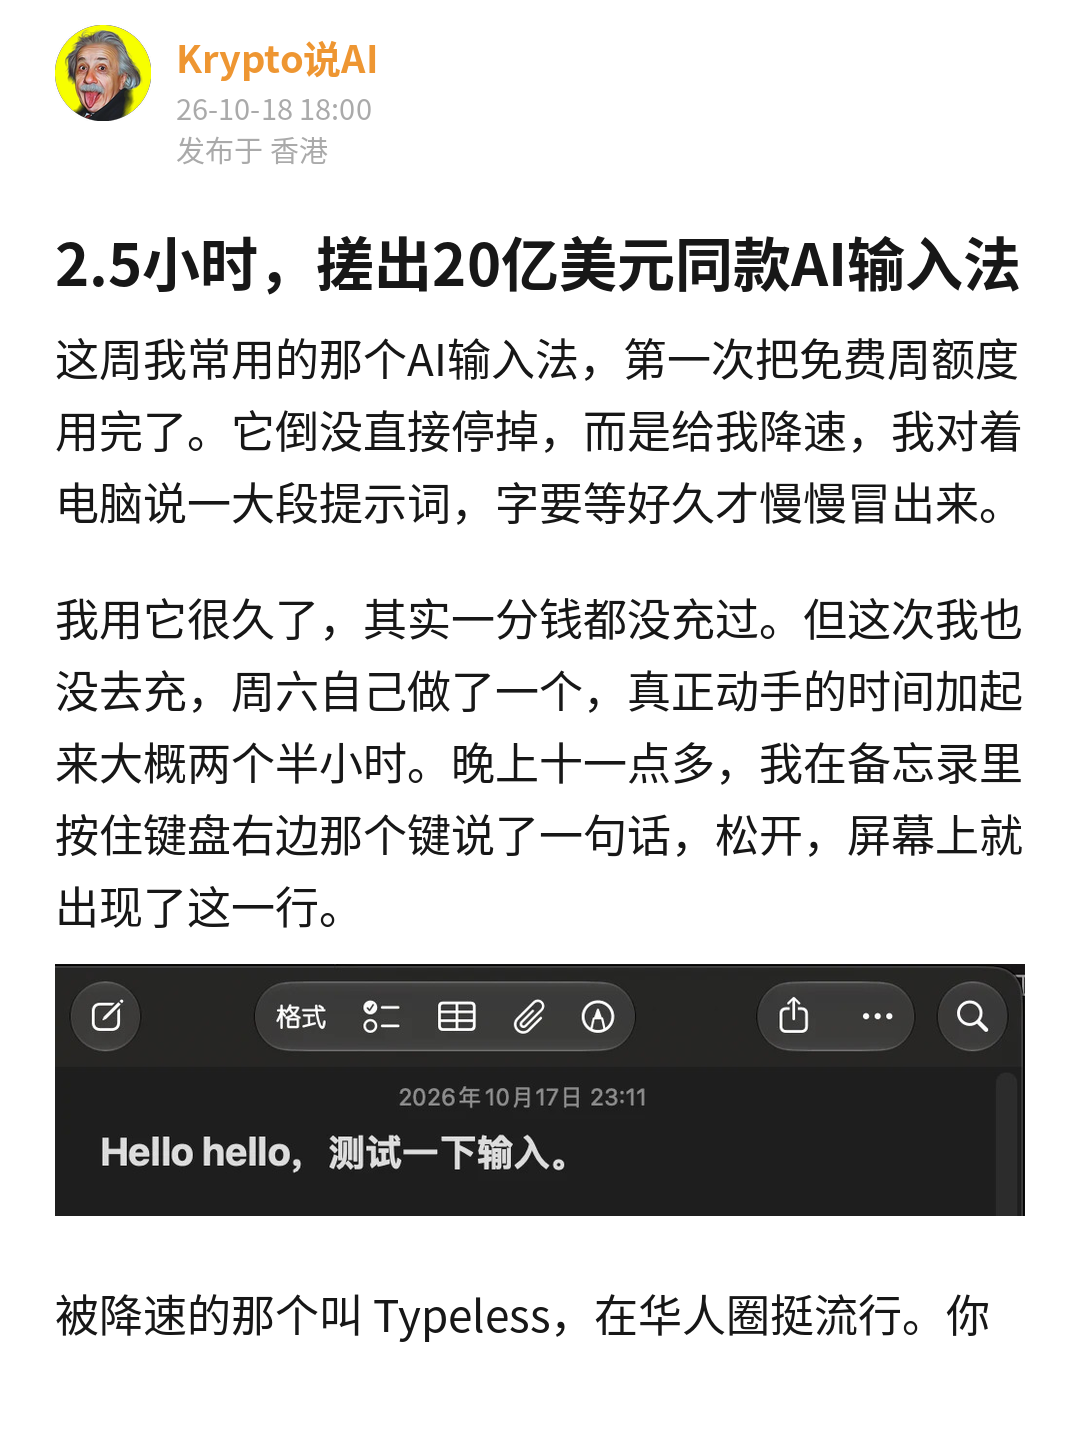
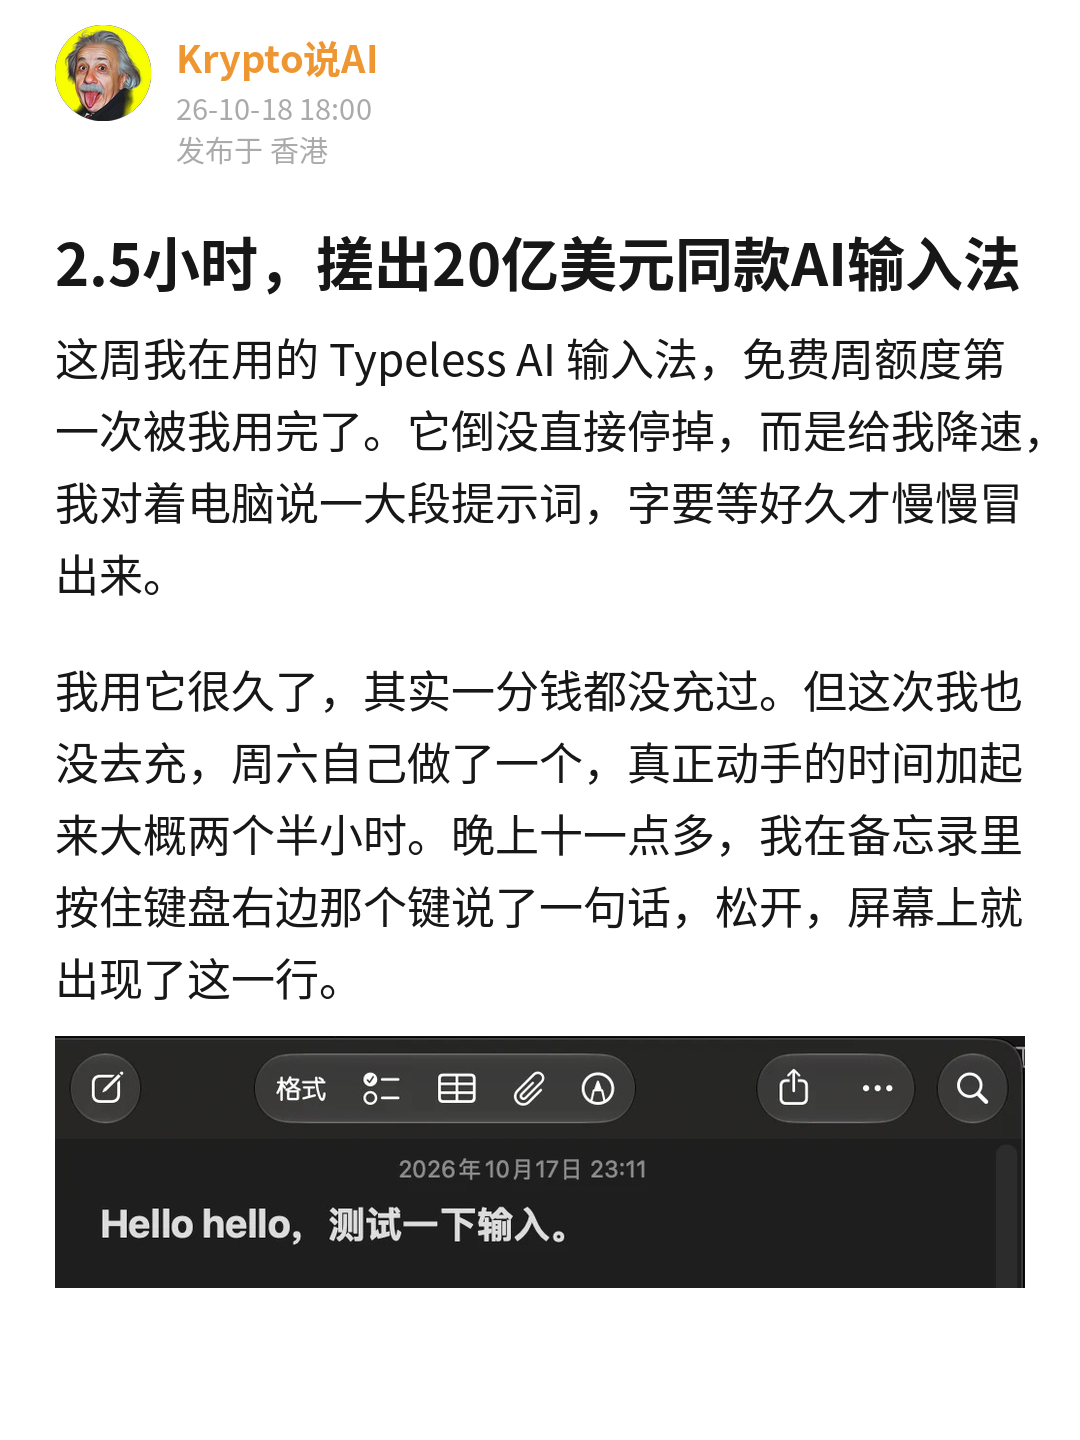
SayType 稿：第一段直接点名 Typeless
Claude-Session: https://claude.ai/code/session_01D4iiXYgJBKJK6kWNuiVi62

Changed region(s): [[0.0306, 0.2188, 0.9472, 0.9375], [0.275, 0.4062, 0.3056, 0.4375]]

diff --git a/发布/2026-10-17_saytype-voice-input/meme版/编辑用/draft.md b/发布/2026-10-17_saytype-voice-input/meme版/编辑用/draft.md
@@ -15,11 +15,11 @@ location: 香港
 account: Krypto说AI
 ---
 
-这周我常用的那个AI输入法，第一次把免费周额度用完了。它倒没直接停掉，而是给我降速，我对着电脑说一大段提示词，字要等好久才慢慢冒出来。
+这周我在用的 Typeless AI 输入法，免费周额度第一次被我用完了。它倒没直接停掉，而是给我降速，我对着电脑说一大段提示词，字要等好久才慢慢冒出来。
 
 我用它很久了，其实一分钱都没充过。但这次我也没去充，周六自己做了一个，真正动手的时间加起来大概两个半小时。晚上十一点多，我在备忘录里按住键盘右边那个键说了一句话，松开，屏幕上就出现了这一行。
 
-被降速的那个叫 Typeless，在华人圈挺流行。你张嘴说话，它就替你打字，而且打出来的是收拾过的字。这个赛道里融资最多的一家，今年 8 月刚拿到新一轮，估值 20 亿美元。
+Typeless 在华人圈挺流行。你张嘴说话，它就替你打字，而且打出来的是收拾过的字。这个赛道里融资最多的一家，今年 8 月刚拿到新一轮，估值 20 亿美元。
 
 那天中午，我在 Claude Code 里开了个新对话，第一句问的是，能不能找个逆向工程的项目，把 Typeless 拆开照着做。
 
